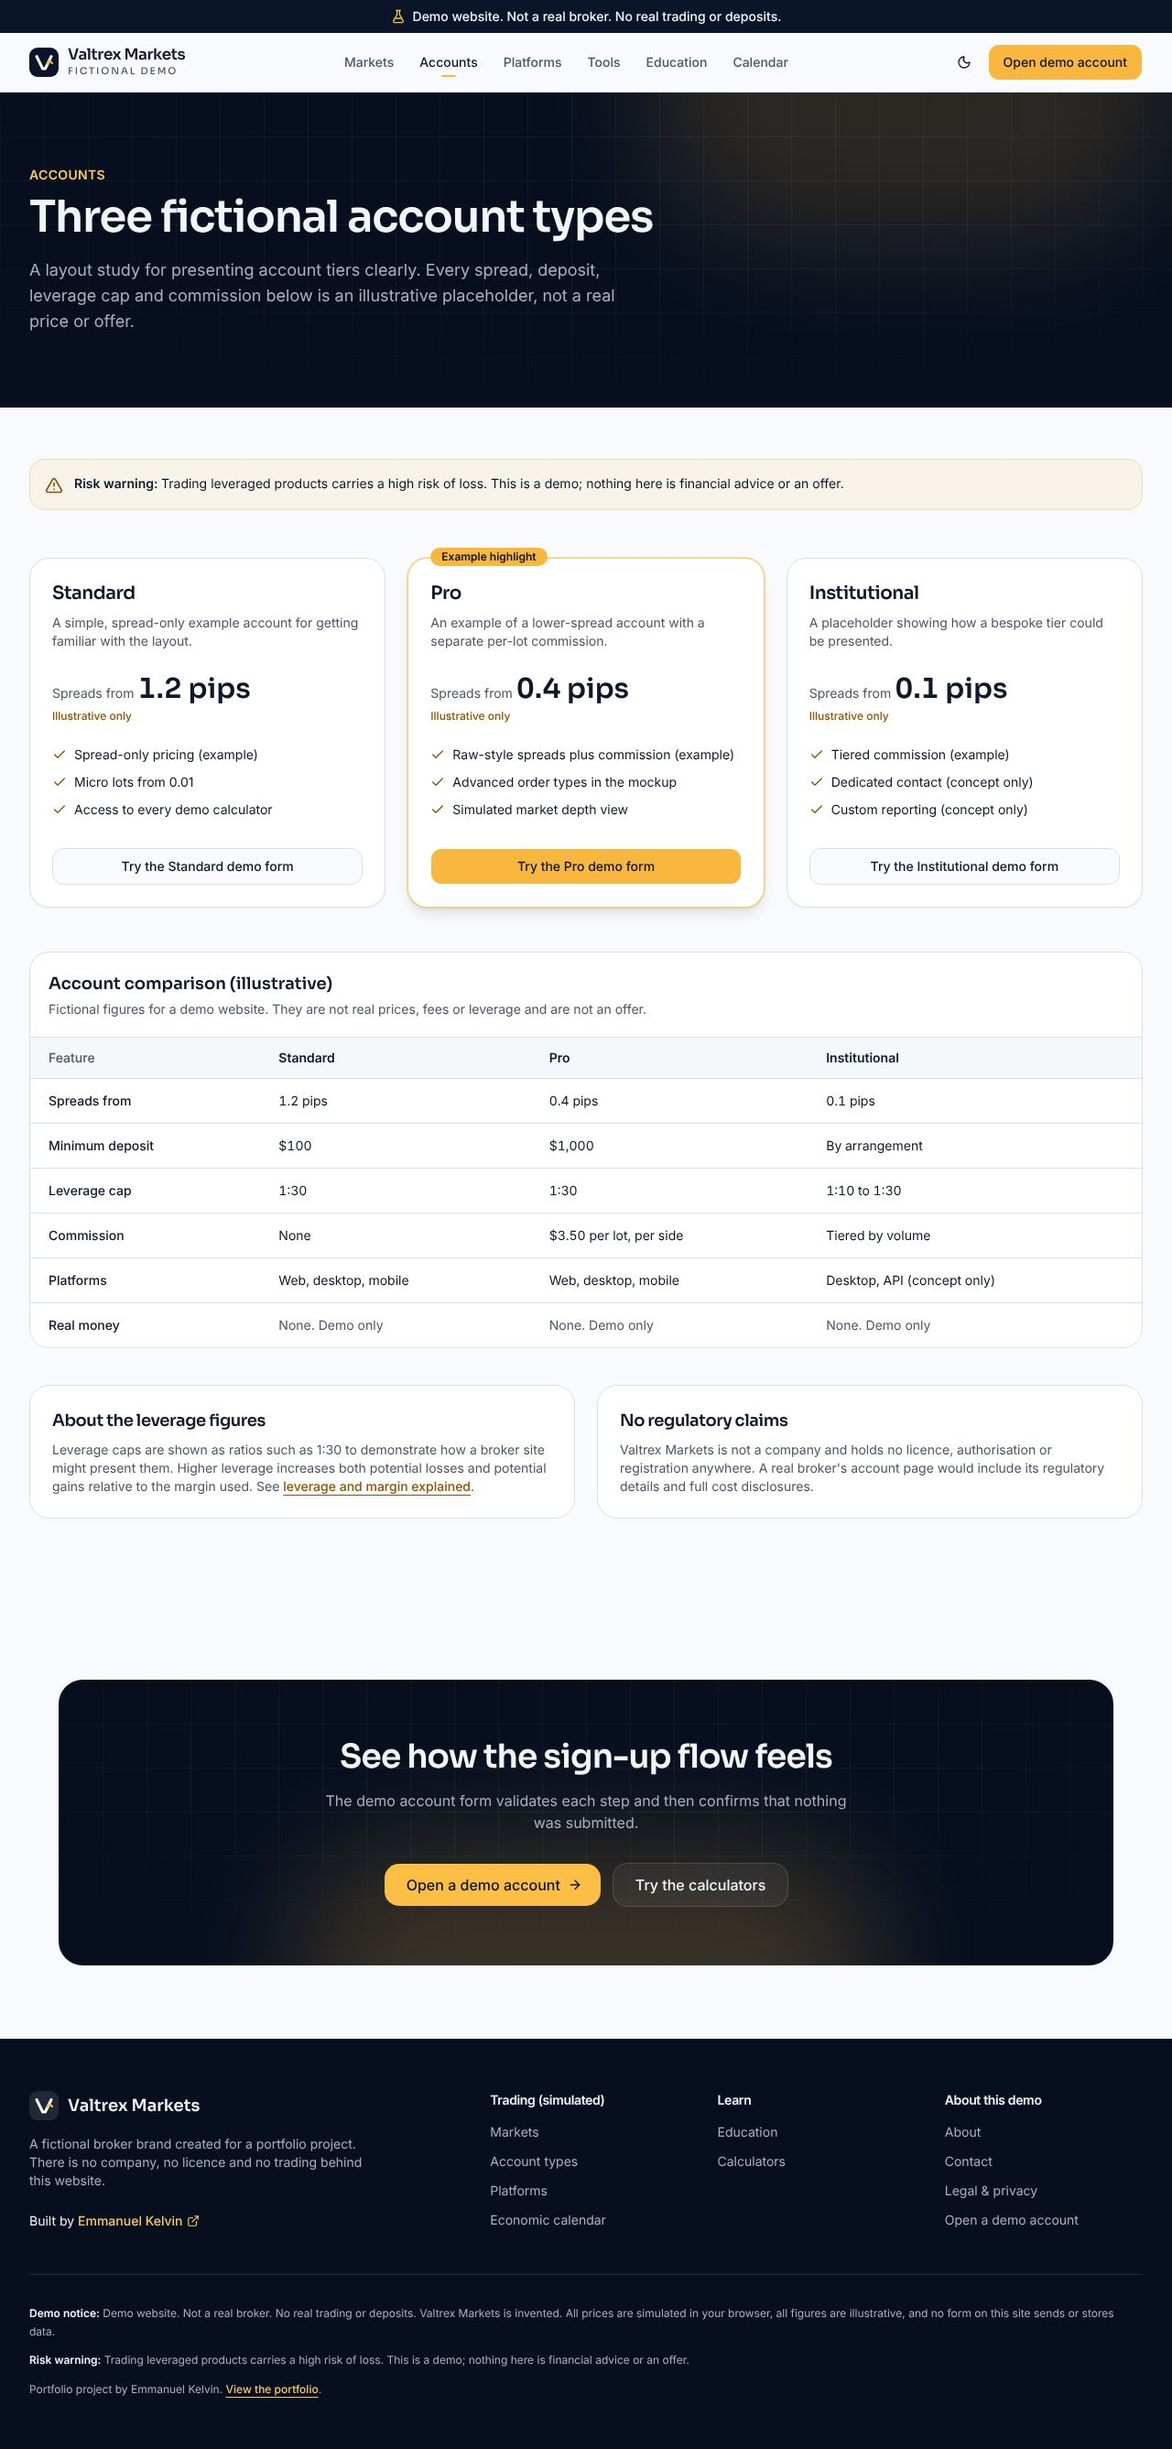
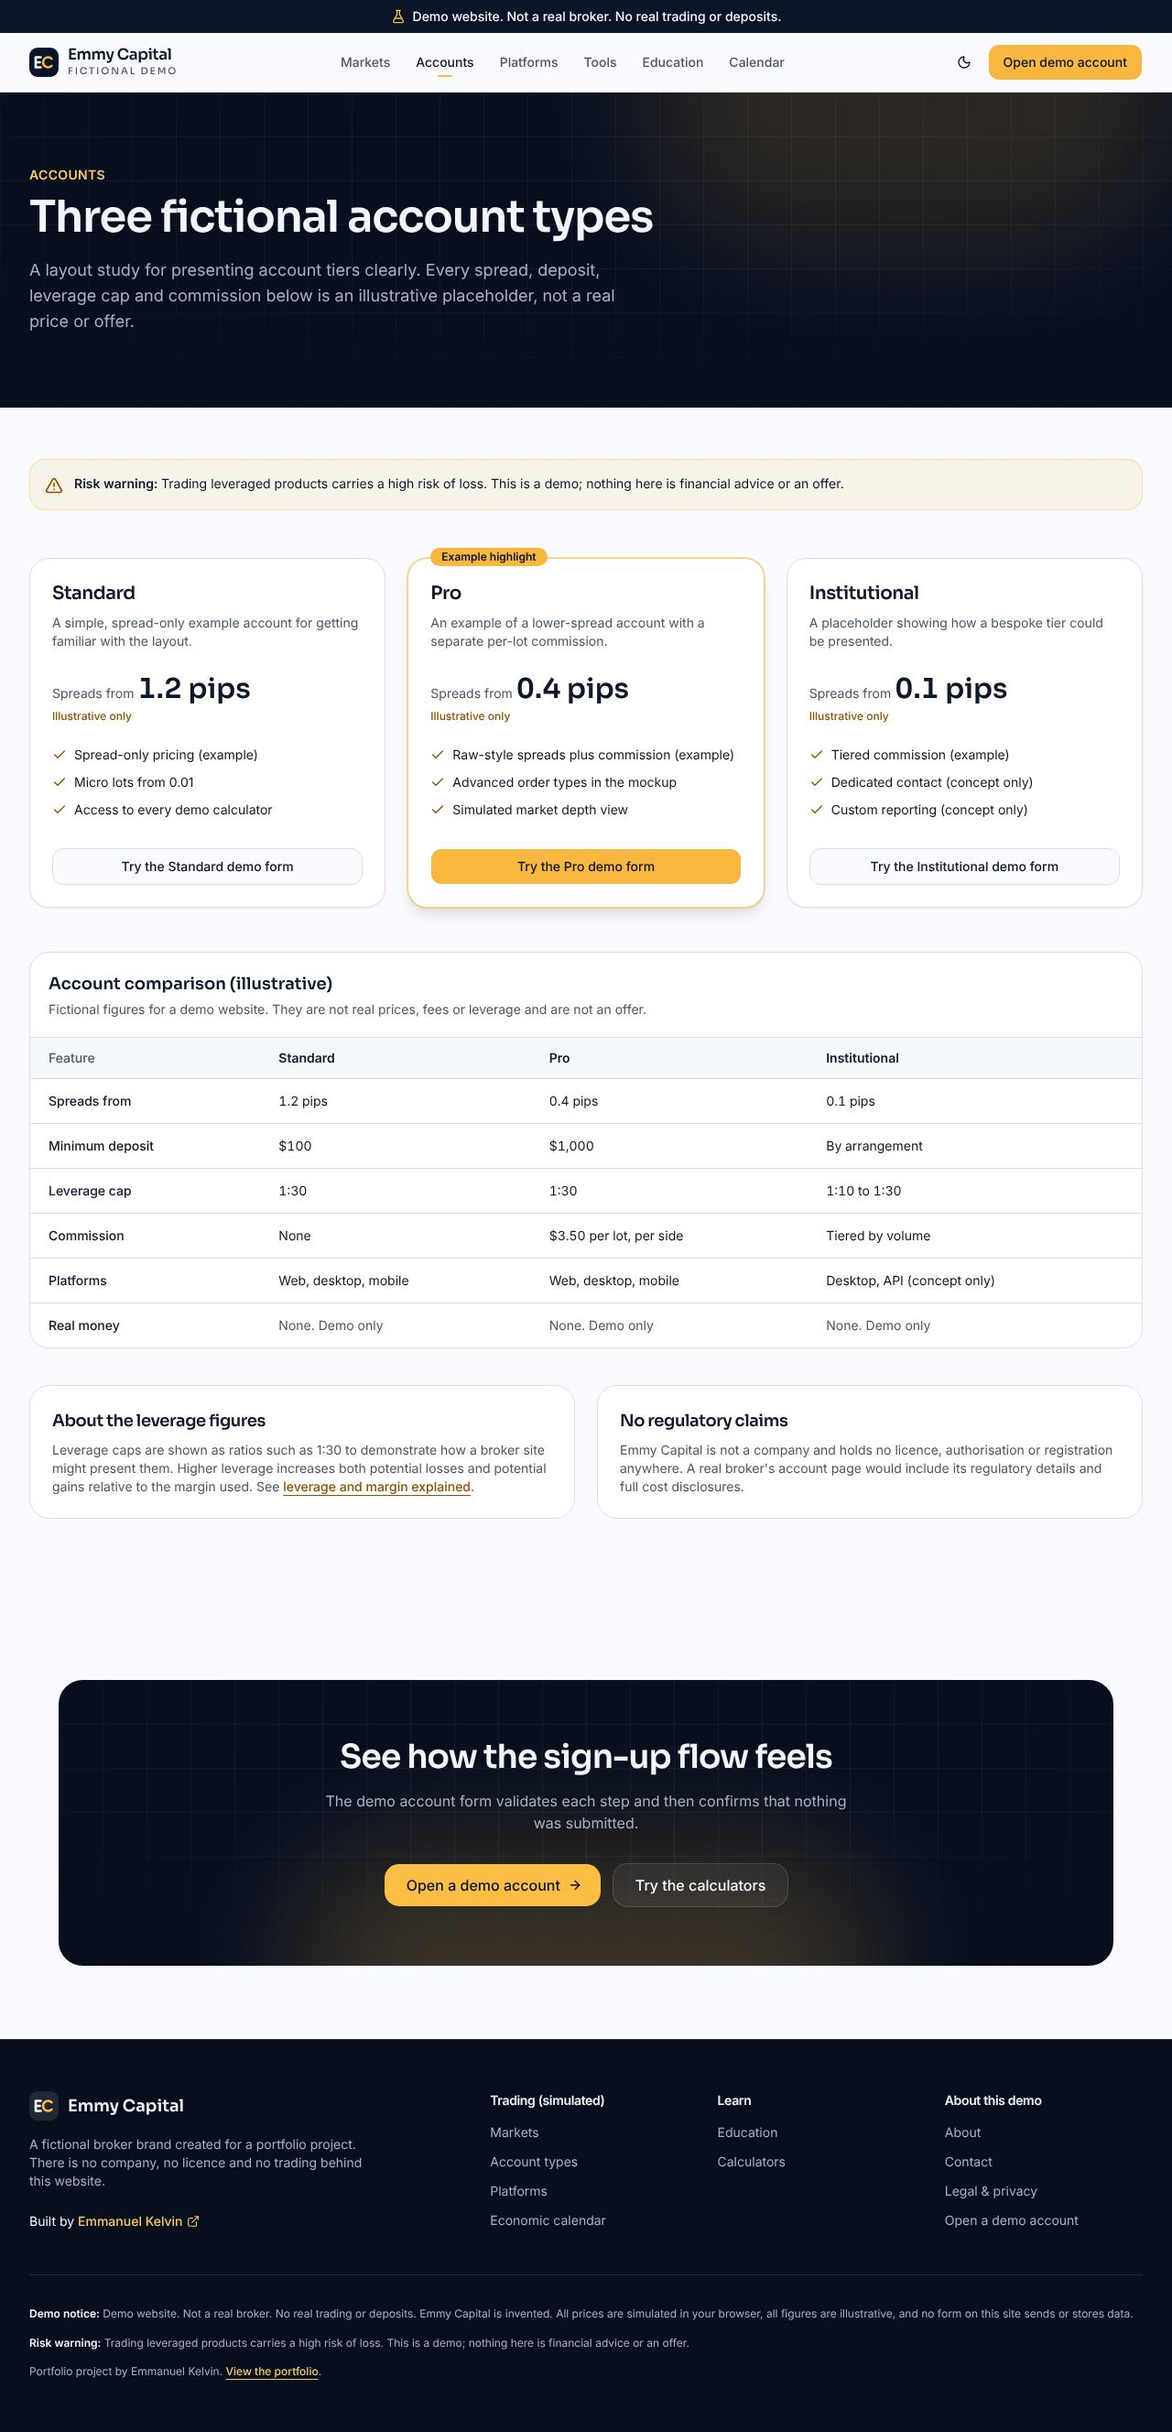
Rename the fictional broker to Emmy Capital (#2)
* refactor: rename the fictional broker to Emmy Capital with EC initials

The previous name is a prescription drug brand, so every trace is
replaced: copy, metadata, OG image text, JSON-LD, aria-labels, mockup
labels and hostname, FAQ, tests, README and CLAUDE.md. The theme storage
key becomes emmy-capital-theme and package.json gains a description.

The V-shaped logo mark becomes an EC monogram drawn from shared stroke
paths, so the header/footer logo, favicon, apple icon and social image
render identically without depending on a font.

Claude-Session: https://claude.ai/code/session_01DqAdC1XquAc6CC6t9hzutk

* fix: keep the generated social image on every page

Pages with their own openGraph object were dropping the site-wide OG
and Twitter image. pageMetadata now re-attaches it, while articles omit
the key so their own generated card is used. Adds an e2e check for
brand consistency (header, footer, titles, OG tags, JSON-LD, generated
images) and social images per page type.

Claude-Session: https://claude.ai/code/session_01DqAdC1XquAc6CC6t9hzutk

* docs: regenerate screenshots from the renamed site

Claude-Session: https://claude.ai/code/session_01DqAdC1XquAc6CC6t9hzutk

---------

diff --git a/e2e/pages.spec.ts b/e2e/pages.spec.ts
@@ -43,7 +43,7 @@ for (const route of ROUTES) {
       );
       await expect(page.locator("footer")).toContainText(DEMO_NOTICE);
       await expect(page.getByRole("heading", { level: 1 })).toHaveCount(1);
-      await expect(page).toHaveTitle(/Valtrex Markets/);
+      await expect(page).toHaveTitle(/Emmy Capital/);
 
       await scrollThrough(page);
 
@@ -94,4 +94,54 @@ test("unknown routes render the custom 404", async ({ page }) => {
   expect(response?.status()).toBe(404);
   await expect(page.getByRole("heading", { level: 1 })).toHaveText("This page went off the chart");
   await expect(page.getByRole("complementary", { name: "Demo notice" })).toBeVisible();
+});
+
+test("brand name and initials are consistent across the site", async ({ page, request }) => {
+  await page.goto("/legal");
+  await expect(page.getByRole("banner").getByRole("link").first()).toHaveText(
+    /Emmy Capital\s*Fictional demo/,
+  );
+  await expect(page.locator("footer")).toContainText("Emmy Capital");
+  await expect(page.locator("main")).toContainText("Emmy Capital is a fictional brand");
+  await expect(page).toHaveTitle(/\| Emmy Capital \(demo\)$/);
+
+  const ogTitle = await page.locator('meta[property="og:title"]').getAttribute("content");
+  expect(ogTitle).toContain("Emmy Capital");
+  const siteName = await page.locator('meta[property="og:site_name"]').getAttribute("content");
+  expect(siteName).toBe("Emmy Capital (fictional demo)");
+
+  const jsonLd = JSON.parse(
+    (await page.locator('script[type="application/ld+json"]').textContent()) ?? "{}",
+  );
+  expect(jsonLd).toMatchObject({ "@type": "WebSite", name: "Emmy Capital (fictional demo)" });
+
+  // Generated images (favicon, apple icon, social cards) are served as PNGs.
+  for (const path of [
+    "/icon",
+    "/apple-icon",
+    "/opengraph-image",
+    "/education/order-types/opengraph-image",
+  ]) {
+    const response = await request.get(path);
+    expect(response.status(), path).toBe(200);
+    expect(response.headers()["content-type"], path).toContain("image/png");
+  }
+  const ogAlt = await page.locator('meta[property="og:image:alt"]').getAttribute("content");
+  expect(ogAlt).toContain("Emmy Capital");
+
+  // Every page shares a social image; articles use their own generated card.
+  for (const [route, image] of [
+    ["/", "/opengraph-image"],
+    ["/markets", "/opengraph-image"],
+    ["/education", "/opengraph-image"],
+    ["/education/order-types", "/education/order-types/opengraph-image"],
+  ]) {
+    await page.goto(route);
+    const og = await page.locator('meta[property="og:image"]').first().getAttribute("content");
+    expect(new URL(og ?? "").pathname, route).toBe(image);
+    await expect(page.locator('meta[name="twitter:image"]').first(), route).toHaveAttribute(
+      "content",
+      new RegExp(image.replace(/\//g, "\\/")),
+    );
+  }
 });

diff --git a/src/lib/og/brand-image.tsx b/src/lib/og/brand-image.tsx
@@ -1,11 +1,12 @@
 import { ImageResponse } from "next/og";
+import { MARK_C_PATH, MARK_E_PATH, MARK_STROKE_WIDTH, MARK_VIEWBOX } from "@/lib/brand-mark";
 
 export const OG_SIZE = { width: 1200, height: 630 };
 
 const NAVY = "#0b1222";
 const AMBER = "#f5b83d";
 
-/** Mark used by the favicon, apple icon and social image. Plain shapes, no fonts or fetches. */
+/** "EC" mark used by the favicon, apple icon and social image. Plain strokes, no fonts or fetches. */
 export function markElement(size: number) {
   return (
     <div
@@ -19,20 +20,20 @@ export function markElement(size: number) {
         justifyContent: "center",
       }}
     >
-      <svg width={size * 0.8} height={size * 0.8} viewBox="0 0 32 32">
+      <svg width={size * 0.8} height={size * 0.8} viewBox={MARK_VIEWBOX}>
         <path
-          d="M8 9.5 14.6 23h2.8L24 9.5"
+          d={MARK_E_PATH}
           fill="none"
           stroke="#ffffff"
-          strokeWidth="3"
+          strokeWidth={MARK_STROKE_WIDTH}
           strokeLinecap="round"
           strokeLinejoin="round"
         />
         <path
-          d="M19.5 17.5 22.4 14.6 25 17"
+          d={MARK_C_PATH}
           fill="none"
           stroke={AMBER}
-          strokeWidth="2.2"
+          strokeWidth={MARK_STROKE_WIDTH}
           strokeLinecap="round"
           strokeLinejoin="round"
         />
@@ -63,7 +64,7 @@ export function brandImage({ eyebrow, title }: { eyebrow: string; title: string 
       <div style={{ display: "flex", alignItems: "center", gap: 20 }}>
         {markElement(64)}
         <div style={{ display: "flex", flexDirection: "column" }}>
-          <span style={{ fontSize: 34, fontWeight: 700 }}>Valtrex Markets</span>
+          <span style={{ fontSize: 34, fontWeight: 700 }}>Emmy Capital</span>
           <span style={{ fontSize: 18, letterSpacing: 4, color: "#94a3b8" }}>FICTIONAL DEMO</span>
         </div>
       </div>

diff --git a/src/components/layout/logo.tsx b/src/components/layout/logo.tsx
@@ -1,26 +1,15 @@
 import Link from "next/link";
 import { cn } from "cn";
+import { MARK_C_PATH, MARK_E_PATH, MARK_STROKE_WIDTH, MARK_VIEWBOX } from "@/lib/brand-mark";
 
 export function LogoMark({ className }: { className?: string }) {
   return (
-    <svg viewBox="0 0 32 32" aria-hidden className={cn("size-8", className)}>
+    <svg viewBox={MARK_VIEWBOX} aria-hidden className={cn("size-8", className)}>
       <rect width="32" height="32" rx="9" className="fill-navy dark:fill-white/10" />
-      <path
-        d="M8 9.5 14.6 23h2.8L24 9.5"
-        fill="none"
-        strokeWidth="3"
-        strokeLinecap="round"
-        strokeLinejoin="round"
-        className="stroke-white"
-      />
-      <path
-        d="M19.5 17.5 22.4 14.6 25 17"
-        fill="none"
-        strokeWidth="2.2"
-        strokeLinecap="round"
-        strokeLinejoin="round"
-        className="stroke-brand"
-      />
+      <g fill="none" strokeWidth={MARK_STROKE_WIDTH} strokeLinecap="round" strokeLinejoin="round">
+        <path d={MARK_E_PATH} className="stroke-white" />
+        <path d={MARK_C_PATH} className="stroke-brand" />
+      </g>
     </svg>
   );
 }
@@ -33,7 +22,7 @@ export function Logo({ className }: { className?: string }) {
     >
       <LogoMark />
       <span className="flex flex-col leading-none">
-        <span className="text-[1.05rem] font-semibold tracking-tight">Valtrex Markets</span>
+        <span className="text-[1.05rem] font-semibold tracking-tight">Emmy Capital</span>
         <span className="mt-1 text-[0.65rem] font-medium tracking-[0.18em] text-muted-foreground uppercase">
           Fictional demo
         </span>

diff --git a/src/lib/metadata.ts b/src/lib/metadata.ts
@@ -1,6 +1,21 @@
 import type { Metadata } from "next";
 import { siteConfig } from "./site";
 
+export const DEFAULT_OG_IMAGE_ALT = `${siteConfig.name}, a fictional forex broker demo website`;
+
+/*
+ * A page-level `openGraph`/`twitter` object replaces the inherited one, which would drop the
+ * site-wide generated image (app/opengraph-image.tsx), so re-attach it here. Articles leave
+ * `images` unset so their own education/[slug]/opengraph-image card is used instead.
+ */
+const DEFAULT_OG_IMAGE = {
+  url: "/opengraph-image",
+  width: 1200,
+  height: 630,
+  alt: DEFAULT_OG_IMAGE_ALT,
+  type: "image/png",
+};
+
 interface PageMetadataInput {
   title: string;
   description: string;
@@ -15,6 +30,8 @@ export function pageMetadata({
   path,
   type = "website",
 }: PageMetadataInput): Metadata {
+  // Omit the key entirely for articles: even `images: undefined` suppresses the file-based card.
+  const images = type === "article" ? {} : { images: [DEFAULT_OG_IMAGE] };
   return {
     title,
     description,
@@ -26,11 +43,13 @@ export function pageMetadata({
       siteName: `${siteConfig.name} (fictional demo)`,
       type,
       locale: "en_GB",
+      ...images,
     },
     twitter: {
       card: "summary_large_image",
       title: `${title} | ${siteConfig.name} (demo)`,
       description,
+      ...images,
     },
   };
 }

diff --git a/src/app/about/page.tsx b/src/app/about/page.tsx
@@ -10,7 +10,7 @@ import { siteConfig } from "@/lib/site";
 export const metadata: Metadata = pageMetadata({
   title: "About this demo",
   description:
-    "Why Valtrex Markets exists: a fictional forex broker website built by full-stack developer Emmanuel Kelvin to demonstrate design, accessibility and engineering.",
+    "Why Emmy Capital exists: a fictional forex broker website built by full-stack developer Emmanuel Kelvin to demonstrate design, accessibility and engineering.",
   path: "/about",
 });
 
@@ -31,9 +31,9 @@ export default function AboutPage() {
         title="A broker website with no broker behind it"
         description={
           <>
-            Valtrex Markets is a portfolio project by {siteConfig.author}, a full-stack developer.
-            The brand, products and figures are invented so the work can be shown without pretending
-            to be, or resembling, any real firm.
+            Emmy Capital is a portfolio project by {siteConfig.author}, a full-stack developer. The
+            brand, products and figures are invented so the work can be shown without pretending to
+            be, or resembling, any real firm.
           </>
         }
       />

diff --git a/src/app/legal/page.tsx b/src/app/legal/page.tsx
@@ -7,7 +7,7 @@ import { DEMO_NOTICE, RISK_WARNING, siteConfig } from "@/lib/site";
 export const metadata: Metadata = pageMetadata({
   title: "Legal: disclaimer, risk warning and privacy",
   description:
-    "Demo disclaimer, general risk warning and a plain privacy statement for the fictional Valtrex Markets website: it collects nothing.",
+    "Demo disclaimer, general risk warning and a plain privacy statement for the fictional Emmy Capital website: it collects nothing.",
   path: "/legal",
 });
 
@@ -26,7 +26,7 @@ export default function LegalPage() {
           </h2>
           <p className="font-medium">{DEMO_NOTICE}</p>
           <p>
-            Valtrex Markets is a fictional brand created by {siteConfig.author} for a software
+            Emmy Capital is a fictional brand created by {siteConfig.author} for a software
             development portfolio. It is not a company, broker, dealer, adviser or financial
             institution, and it is not authorised, licensed or registered by any regulator.
           </p>

diff --git a/src/components/platforms/mockups.tsx b/src/components/platforms/mockups.tsx
@@ -66,7 +66,7 @@ export function WebTerminalMockup() {
           <span className="size-2.5 rounded-full bg-brand/80" />
           <span className="size-2.5 rounded-full bg-positive/80" />
           <span className="ml-3 truncate rounded-md bg-muted px-3 py-0.5 font-mono text-[0.65rem] text-muted-foreground">
-            web-terminal.valtrex.example / demo
+            web-terminal.emmy-capital.example / demo
           </span>
         </div>
         <div className="grid text-xs md:grid-cols-[180px_1fr_200px]">
@@ -155,7 +155,7 @@ export function DesktopMockup() {
     >
       <div className="dark overflow-hidden rounded-xl border bg-background text-foreground shadow-xl shadow-black/20">
         <div className="flex items-center justify-between border-b px-3 py-2 text-[0.65rem] text-muted-foreground">
-          <span>Valtrex Desktop (concept)</span>
+          <span>Emmy Capital Desktop (concept)</span>
           <span>— ▢ ✕</span>
         </div>
         <div className="grid grid-cols-2 gap-px bg-border">

diff --git a/src/components/layout/footer.tsx b/src/components/layout/footer.tsx
@@ -11,7 +11,7 @@ export function Footer() {
           <div className="max-w-sm">
             <div className="flex items-center gap-2.5 font-heading text-lg font-semibold">
               <LogoMark />
-              Valtrex Markets
+              Emmy Capital
             </div>
             <p className="mt-4 text-sm text-muted-foreground">
               A fictional broker brand created for a portfolio project. There is no company, no
@@ -52,7 +52,7 @@ export function Footer() {
         <div className="mt-12 space-y-3 border-t pt-8 text-xs leading-relaxed text-muted-foreground">
           <p>
             <strong className="font-semibold text-foreground">Demo notice:</strong> {DEMO_NOTICE}{" "}
-            Valtrex Markets is invented. All prices are simulated in your browser, all figures are
+            Emmy Capital is invented. All prices are simulated in your browser, all figures are
             illustrative, and no form on this site sends or stores data.
           </p>
           <p>

diff --git a/src/app/contact/page.tsx b/src/app/contact/page.tsx
@@ -8,7 +8,7 @@ import { siteConfig } from "@/lib/site";
 export const metadata: Metadata = pageMetadata({
   title: "Contact (demo form)",
   description:
-    "A demo contact form for the fictional Valtrex Markets that validates but never sends. Real enquiries go to Emmanuel Kelvin's portfolio.",
+    "A demo contact form for the fictional Emmy Capital that validates but never sends. Real enquiries go to Emmanuel Kelvin's portfolio.",
   path: "/contact",
 });
 
@@ -30,7 +30,7 @@ export default function ContactPage() {
             Real enquiries
           </h2>
           <p className="mt-2 text-sm text-muted-foreground">
-            Valtrex Markets has no support team because it does not exist. If you would like to talk
+            Emmy Capital has no support team because it does not exist. If you would like to talk
             about this project or hire its developer, please use the contact details on the
             portfolio.
           </p>

diff --git a/src/lib/site.ts b/src/lib/site.ts
@@ -10,11 +10,11 @@ function normaliseUrl(value: string | undefined, fallback: string): string {
 }
 
 export const siteConfig = {
-  name: "Valtrex Markets",
-  shortName: "Valtrex",
+  name: "Emmy Capital",
+  shortName: "Emmy",
   tagline: "A fictional forex broker website, built as a portfolio demo.",
   description:
-    "Valtrex Markets is a fictional forex broker demo website by Emmanuel Kelvin. Simulated prices, working calculators and educational guides. No real trading, accounts or deposits.",
+    "Emmy Capital is a fictional forex broker demo website by Emmanuel Kelvin. Simulated prices, working calculators and educational guides. No real trading, accounts or deposits.",
   url: normaliseUrl(process.env.NEXT_PUBLIC_SITE_URL, "http://localhost:3000"),
   portfolioUrl: normaliseUrl(
     process.env.NEXT_PUBLIC_PORTFOLIO_URL,

diff --git a/e2e/behaviour.spec.ts b/e2e/behaviour.spec.ts
@@ -250,11 +250,11 @@ test.describe("calendar", () => {
 test.describe("navigation and FAQ", () => {
   test("FAQ accordion works with the keyboard", async ({ page }) => {
     await page.goto("/");
-    const trigger = page.getByRole("button", { name: "Is Valtrex Markets a real broker?" });
+    const trigger = page.getByRole("button", { name: "Is Emmy Capital a real broker?" });
     await trigger.focus();
     await page.keyboard.press("Enter");
     await expect(trigger).toHaveAttribute("aria-expanded", "true");
-    await expect(page.getByText(/Valtrex Markets is a fictional brand created/)).toBeVisible();
+    await expect(page.getByText(/Emmy Capital is a fictional brand created/)).toBeVisible();
     await page.keyboard.press("Space");
     await expect(trigger).toHaveAttribute("aria-expanded", "false");
   });

diff --git a/src/app/page.tsx b/src/app/page.tsx
@@ -104,8 +104,8 @@ export default function HomePage() {
               Global markets, <span className="text-brand-text">simulated</span> end to end.
             </h1>
             <p className="mt-6 max-w-xl text-lg text-pretty text-muted-foreground">
-              Valtrex Markets is an invented forex broker that shows what a modern trading website
-              can feel like: live-looking simulated prices, working risk calculators and clear
+              Emmy Capital is an invented forex broker that shows what a modern trading website can
+              feel like: live-looking simulated prices, working risk calculators and clear
               education. No real money, accounts or trading.
             </p>
             <div className="mt-8 flex flex-col gap-3 sm:flex-row">
